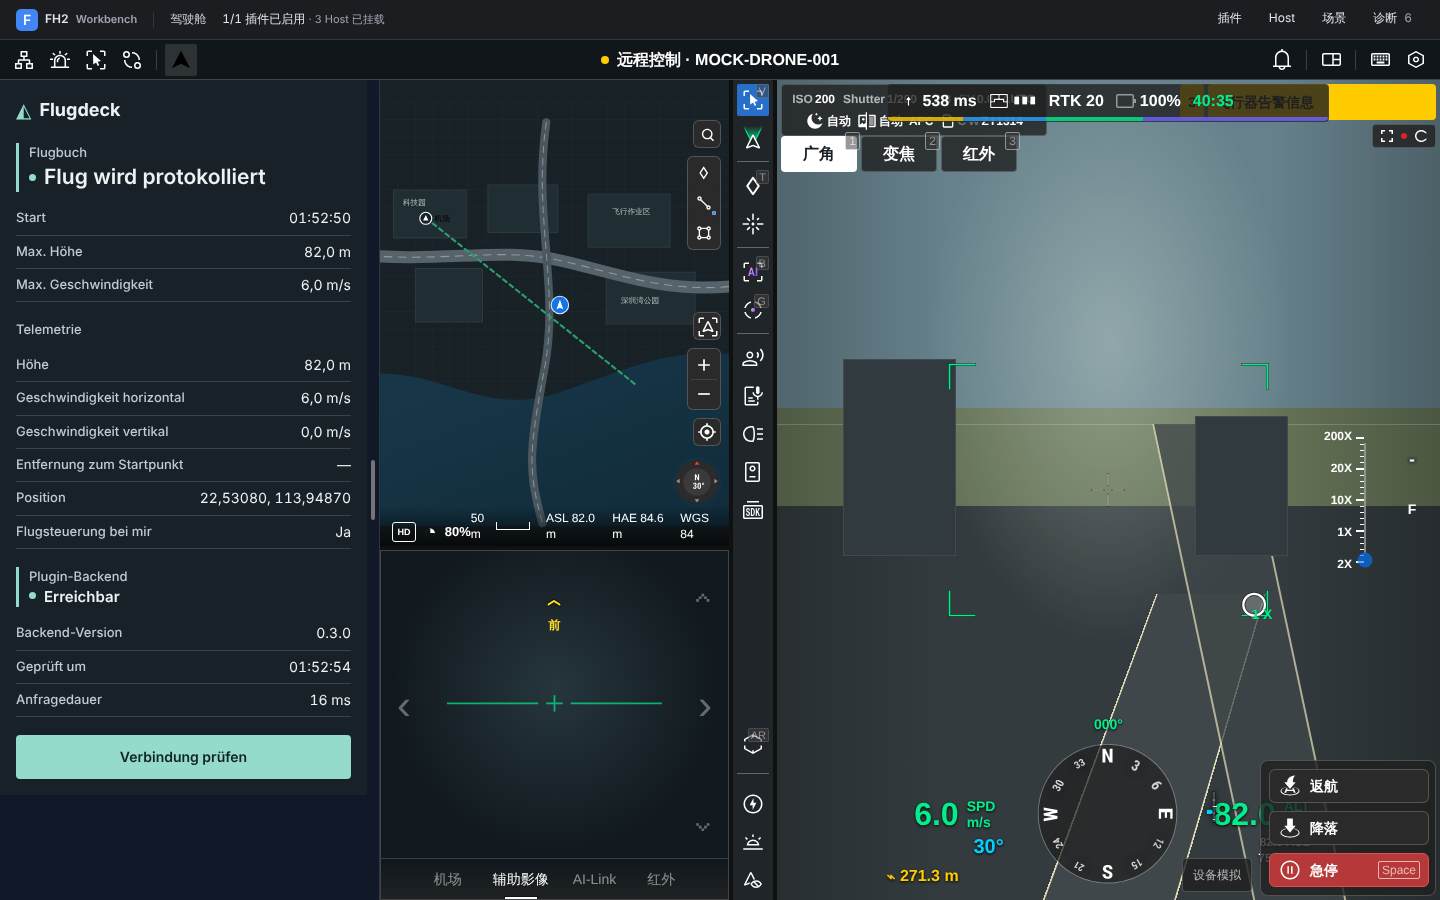
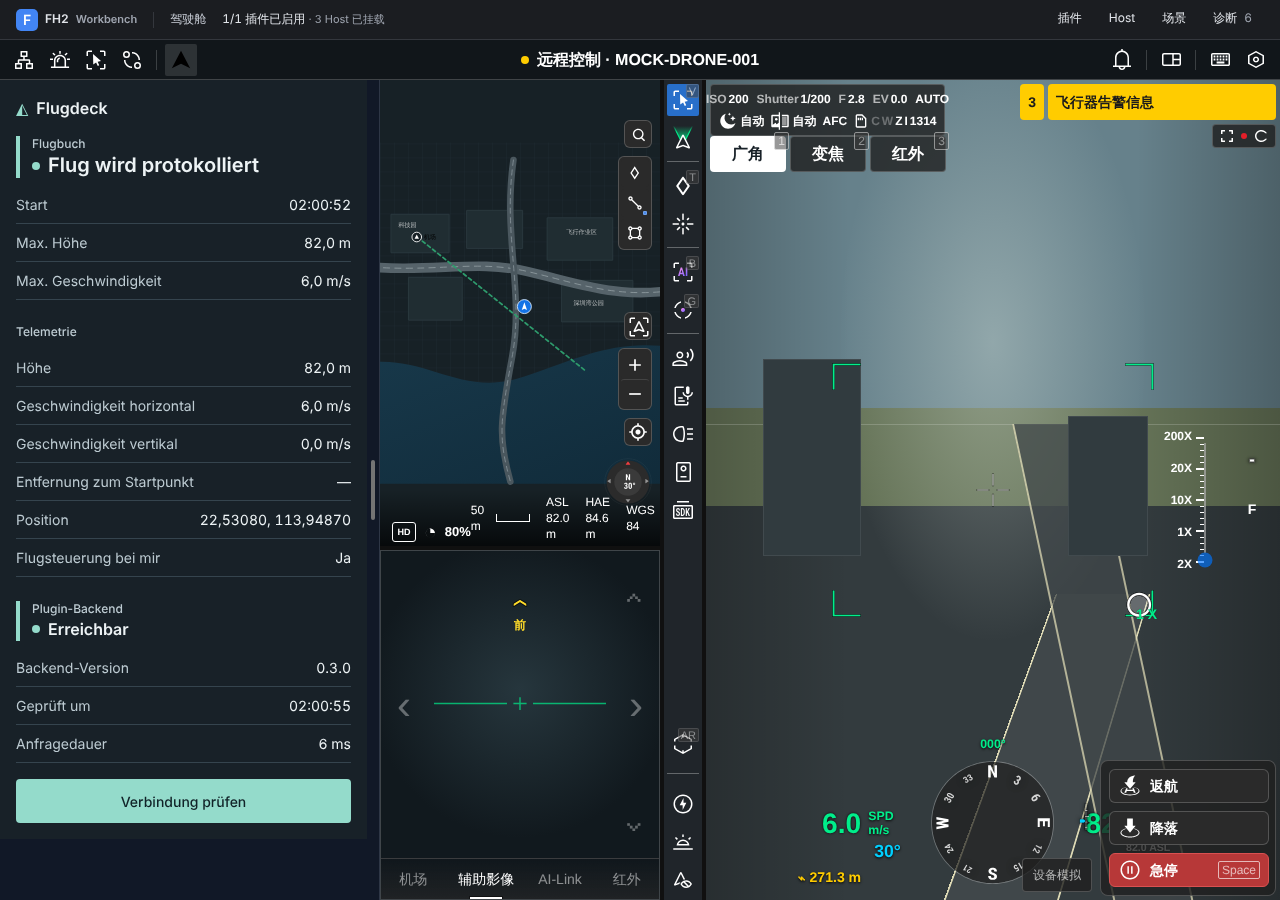
Apply UX audit fixes to FlugDeck views
- Type scale 20/16/14/12, weights 400/500/600, line-height 1.5; spacing on 4/8 grid
- Flight log as List/Index pattern: L1 frame with hairlines, labelled search, empty and no-match states
- Plan note: valid label markup, blur-first length validation instead of silent truncation
- Error copy names the recovery step; busy state on actions; new screenshots

Claude-Session: https://claude.ai/code/session_01TE2RnedQf1LZRgct2Y9tHc

diff --git a/exp_flugdeck/frontend/exp_flugdeck_frontend/src/views/flightlog-page/FlightlogPage.vue b/exp_flugdeck/frontend/exp_flugdeck_frontend/src/views/flightlog-page/FlightlogPage.vue
@@ -1,53 +1,88 @@
 <script setup lang="ts">
-import { onUnmounted, ref } from 'vue'
+import { computed, onUnmounted, ref } from 'vue'
 import type { FlightlogClient, FlightlogState } from './contract'
 import { initialFlightlog } from './contract'
 import { dash, duration, stamp, unit } from '../shared/format'
 
+// Seitenmuster: List / Index (Kopf mit Aktion, Suche, gerahmte Liste, Leer- und Filterzustand).
 const { client } = defineProps<{ client: FlightlogClient }>()
 const state = ref<FlightlogState>(initialFlightlog)
 const bridgeError = ref('')
+const query = ref('')
 const subscription = client.state.subscribe(next => { state.value = next })
+
+const visible = computed(() => {
+  const needle = query.value.trim().toLowerCase()
+  if (!needle) return state.value.items
+  return state.value.items.filter(item =>
+    [item.droneSn, stamp(item.startedAt), item.mediaRef].some(text => text.toLowerCase().includes(needle)))
+})
+const loading = computed(() => state.value.phase === 'loading')
 
 async function reload () {
   bridgeError.value = ''
   try { await client.reload() }
-  catch { bridgeError.value = 'Das Flugbuch konnte den Plugin-Einstieg nicht erreichen.' }
+  catch { bridgeError.value = 'Das Flugbuch konnte den Plugin-Einstieg nicht erreichen. Bitte die Seite neu laden.' }
 }
 onUnmounted(() => subscription.dispose())
 </script>
 <template>
-  <section class="fd" lang="de" aria-label="Flugbuch">
+  <section class="fd" lang="de" aria-labelledby="flugdeck-log-title" :aria-busy="loading">
     <header>
-      <h2>Flugbuch</h2>
-      <button type="button" :disabled="state.phase === 'loading' || !state.projectId" @click="reload">
-        {{ state.phase === 'loading' ? 'Lädt …' : 'Aktualisieren' }}
+      <h2 id="flugdeck-log-title">Flugbuch</h2>
+      <button type="button" class="secondary" :disabled="loading || !state.projectId" :aria-busy="loading" @click="reload">
+        {{ loading ? 'Lädt …' : 'Liste aktualisieren' }}
       </button>
     </header>
-    <p class="error" v-if="bridgeError || state.phase === 'error'" role="alert">{{ bridgeError || state.message }}</p>
-    <p class="hint" v-else-if="state.phase === 'ready' && state.items.length === 0">
-      Noch keine Flüge in diesem Projekt. Flüge werden automatisch erfasst, wenn das Flugdeck-Panel im Cockpit geöffnet ist.
+
+    <p class="error" v-if="bridgeError || state.phase === 'error'" role="alert">
+      {{ bridgeError || state.message }}<template v-if="!bridgeError && state.projectId"> Mit „Liste aktualisieren“ erneut laden.</template>
     </p>
-    <ol v-if="state.items.length" aria-label="Flüge, neueste zuerst">
-      <li v-for="item in state.items" :key="item.flightKey" :data-phase="item.status === 'active' ? 'recording' : 'ready'" class="readout">
-        <p class="title"><i class="dot" aria-hidden="true"></i>{{ stamp(item.startedAt) }}</p>
-        <dl>
-          <div><dt>Dauer</dt><dd>{{ item.status === 'active' ? 'läuft' : duration(item.startedAt, item.finishedAt) }}</dd></div>
-          <div><dt>Drohne</dt><dd>{{ item.droneSn || dash }}</dd></div>
-          <div><dt>Max. Höhe</dt><dd>{{ unit(item.maxHeightM, 'm') }}</dd></div>
-          <div><dt>Max. Geschwindigkeit</dt><dd>{{ unit(item.maxSpeedMs, 'm/s') }}</dd></div>
-          <div><dt>Medien</dt><dd>{{ item.mediaRef || dash }}</dd></div>
-        </dl>
-      </li>
-    </ol>
-    <p class="hint" v-if="state.total > state.items.length">{{ state.items.length }} von {{ state.total }} Flügen angezeigt.</p>
+
+    <label class="label" for="flugdeck-log-search">Flüge durchsuchen</label>
+    <input id="flugdeck-log-search" v-model="query" type="search" placeholder="08.11.2026" autocomplete="off" />
+
+    <div class="frame">
+      <div v-if="state.phase === 'ready' && state.items.length === 0" class="empty">
+        <h3 class="empty-title">Noch keine Flüge</h3>
+        <p class="hint">Flüge erscheinen hier automatisch, sobald im Cockpit mit geöffnetem Flugdeck-Panel geflogen wird.</p>
+      </div>
+      <div v-else-if="state.items.length > 0 && visible.length === 0" class="empty">
+        <h3 class="empty-title">Keine Flüge passen zur Suche</h3>
+        <p class="hint">Andere Drohne oder anderes Datum versuchen.</p>
+        <button type="button" class="secondary" @click="query = ''">Suche zurücksetzen</button>
+      </div>
+      <p v-else-if="state.items.length === 0" class="empty hint">{{ loading ? 'Flüge werden geladen …' : dash }}</p>
+      <ol v-else aria-label="Flüge, neueste zuerst">
+        <li v-for="item in visible" :key="item.flightKey" :data-phase="item.status === 'active' ? 'recording' : 'ready'">
+          <p class="title"><i class="dot" aria-hidden="true"></i>{{ stamp(item.startedAt) }}<span class="status">{{ item.status === 'active' ? 'läuft' : duration(item.startedAt, item.finishedAt) }}</span></p>
+          <dl>
+            <div><dt>Drohne</dt><dd>{{ item.droneSn || dash }}</dd></div>
+            <div><dt>Max. Höhe</dt><dd>{{ unit(item.maxHeightM, 'm') }}</dd></div>
+            <div><dt>Max. Geschwindigkeit</dt><dd>{{ unit(item.maxSpeedMs, 'm/s') }}</dd></div>
+            <div><dt>Medien</dt><dd>{{ item.mediaRef || dash }}</dd></div>
+          </dl>
+        </li>
+      </ol>
+    </div>
+    <p class="hint count" v-if="state.total > state.items.length">{{ state.items.length }} von {{ state.total }} Flügen geladen.</p>
   </section>
 </template>
 <style src="../shared/theme.css"></style>
 <style scoped>
 header { display: flex; align-items: center; justify-content: space-between; gap: 12px; margin-bottom: 16px; }
-ol { list-style: none; margin: 0; padding: 0; display: grid; gap: 16px; }
-.title { font-weight: 600; margin-bottom: 4px; }
-.hint { color: var(--fd-muted); }
-.error { margin-block: 12px; }
+.error { margin-bottom: 16px; }
+input { margin: 4px 0 16px; }
+.frame { background: var(--fd-raised); border: 1px solid var(--fd-line); border-radius: 4px; }
+ol { list-style: none; margin: 0; padding: 0; }
+li { padding: 12px 16px; border-bottom: 1px solid var(--fd-line); }
+li:last-child { border-bottom: 0; }
+.title { display: flex; justify-content: space-between; gap: 8px; font-weight: 500; }
+.status { color: var(--fd-muted); font-variant-numeric: tabular-nums; }
+dl { margin-top: 4px; }
+dl div:last-child { border-bottom: 0; }
+.empty { padding: 16px; }
+.empty-title { font-size: 14px; color: var(--fd-text); font-weight: 600; margin-bottom: 4px; }
+.empty button { margin-top: 12px; }
+.count { margin-top: 8px; font-size: 12px; }
 </style>

diff --git a/exp_flugdeck/frontend/exp_flugdeck_frontend/src/views/shared/theme.css b/exp_flugdeck/frontend/exp_flugdeck_frontend/src/views/shared/theme.css
@@ -1,21 +1,28 @@
-/* Gemeinsame Flugdeck-Farben (siehe DESIGN.md). */
+/*
+ * Gemeinsame Flugdeck-Gestaltung (siehe DESIGN.md).
+ * Schrift: 20 / 16 / 14 / 12 px, Stärken 400 / 500 / 600. Abstände: 4er-Raster, Abschnitte 8er-Raster.
+ */
 .fd {
-  --fd-surface: #182128; --fd-text: #edf3f5; --fd-muted: #bdcbd2; --fd-line: #35444e;
+  --fd-surface: #182128; --fd-raised: #1e2930; --fd-text: #edf3f5; --fd-muted: #bdcbd2; --fd-line: #35444e;
   --fd-ok: #94dbcb; --fd-busy: #f2cf8b; --fd-error: #ffae95; --fd-neutral: #a8b6bd;
   box-sizing: border-box; min-width: 0; padding: 16px; background: var(--fd-surface); color: var(--fd-text);
-  font: 14px/1.45 system-ui, sans-serif;
+  font: 400 14px/1.5 system-ui, sans-serif;
 }
 .fd h2, .fd h3, .fd p, .fd dl, .fd dd { margin: 0; }
-.fd h2 { font-size: 18px; font-weight: 650; }
-.fd h3, .fd dt { font-size: 13px; font-weight: 500; color: var(--fd-muted); }
-.fd dl div { display: flex; justify-content: space-between; flex-wrap: wrap; gap: 2px 8px; padding: 6px 0; border-bottom: 1px solid var(--fd-line); }
+.fd h2 { font-size: 16px; font-weight: 600; line-height: 1.25; }
+.fd h3, .fd .label { font-size: 12px; font-weight: 500; line-height: 1.4; color: var(--fd-muted); }
+.fd dt { color: var(--fd-muted); }
+.fd dl div { display: flex; justify-content: space-between; flex-wrap: wrap; gap: 4px 8px; padding: 8px 0; border-bottom: 1px solid var(--fd-line); }
 .fd dd { font-variant-numeric: tabular-nums; overflow-wrap: anywhere; min-width: 0; }
 .fd .error { color: #ffbea8; overflow-wrap: anywhere; }
-.fd button { min-height: 44px; padding: 6px 12px; color: #112328; background: var(--fd-ok); border: 0; border-radius: 4px; font: inherit; font-weight: 600; cursor: pointer; }
+.fd .hint { color: var(--fd-muted); }
+.fd button { min-height: 44px; padding: 8px 12px; color: #112328; background: var(--fd-ok); border: 0; border-radius: 4px; font: inherit; font-weight: 500; cursor: pointer; }
+.fd button.secondary { color: var(--fd-text); background: transparent; border: 1px solid var(--fd-line); }
 .fd button:disabled { background: #abbac0; cursor: wait; }
 .fd button:focus-visible, .fd input:focus-visible, .fd textarea:focus-visible { outline: 2px solid white; outline-offset: 2px; }
-.fd .readout { border-inline-start: 3px solid var(--signal, var(--fd-neutral)); padding-inline-start: 10px; }
+.fd input, .fd textarea { box-sizing: border-box; width: 100%; min-height: 44px; padding: 8px; font: inherit; color: var(--fd-text); background: #0f161b; border: 1px solid var(--fd-line); border-radius: 4px; }
+.fd .readout { border-inline-start: 4px solid var(--signal, var(--fd-neutral)); padding-inline-start: 12px; }
 .fd [data-phase="ready"], .fd [data-phase="recording"] { --signal: var(--fd-ok); }
 .fd [data-phase="loading"] { --signal: var(--fd-busy); }
 .fd [data-phase="error"] { --signal: var(--fd-error); }
-.fd .dot { display: inline-block; width: 7px; height: 7px; margin: 0 8px 3px 0; border-radius: 50%; background: var(--signal, var(--fd-neutral)); }
+.fd .dot { display: inline-block; width: 8px; height: 8px; margin: 0 8px 2px 0; border-radius: 50%; background: var(--signal, var(--fd-neutral)); }

diff --git a/exp_flugdeck/frontend/exp_flugdeck_frontend/src/views/status-panel/Panel.vue b/exp_flugdeck/frontend/exp_flugdeck_frontend/src/views/status-panel/Panel.vue
@@ -34,7 +34,7 @@ onUnmounted(() => subscription.dispose())
       <h3>Flugbuch</h3>
       <p class="headline" role="status"><i class="dot" aria-hidden="true"></i>{{ flightTitles[flight.phase] }}</p>
     </div>
-    <p class="error" v-if="flight.message">{{ flight.message }}</p>
+    <p class="error" v-if="flight.message" role="alert">{{ flight.message }}</p>
     <dl>
       <div><dt>Start</dt><dd>{{ time(flight.startedAt) }}</dd></div>
       <div><dt>Max. Höhe</dt><dd>{{ unit(flight.maxHeightM, 'm') }}</dd></div>
@@ -60,26 +60,29 @@ onUnmounted(() => subscription.dispose())
       <h3>Plugin-Backend</h3>
       <p role="status"><i class="dot" aria-hidden="true"></i>{{ bridgeError ? 'Panelverbindung gestört' : backendTitles[state.backend.phase] }}</p>
     </div>
-    <p class="error" v-if="bridgeError || state.backend.phase === 'error'">{{ bridgeError || state.backend.detail }}</p>
+    <p class="error" v-if="bridgeError || state.backend.phase === 'error'">
+      {{ bridgeError || state.backend.detail }} Bitte Netzwerk prüfen und die Verbindung erneut prüfen.
+    </p>
     <dl v-if="!bridgeError">
       <div><dt>Backend-Version</dt><dd>{{ state.backend.phase === 'ready' ? state.backend.detail : dash }}</dd></div>
       <div><dt>Geprüft um</dt><dd>{{ time(state.backend.checkedAt) }}</dd></div>
       <div><dt>Anfragedauer</dt><dd>{{ state.backend.durationMs === null ? dash : state.backend.durationMs + ' ms' }}</dd></div>
     </dl>
-    <button type="button" :disabled="pending || (!bridgeError && state.backend.phase === 'loading')" @click="check">
+    <button type="button" :aria-busy="pending || state.backend.phase === 'loading'" :disabled="pending || (!bridgeError && state.backend.phase === 'loading')" @click="check">
       {{ pending ? 'Prüfung läuft …' : 'Verbindung prüfen' }}
     </button>
   </section>
 </template>
 <style src="../shared/theme.css"></style>
 <style scoped>
-header { display: flex; align-items: center; gap: 8px; margin-bottom: 18px; }
-.mark { color: var(--fd-ok); font-size: 20px; }
-.headline { font-size: 21px; font-weight: 620; overflow-wrap: anywhere; }
-.section { margin-top: 18px; }
-.hint { color: var(--fd-muted); margin-block: 8px 14px; }
+header { display: flex; align-items: center; gap: 8px; margin-bottom: 16px; }
+.mark { color: var(--fd-ok); font-size: 16px; }
+.headline { font-size: 20px; font-weight: 600; line-height: 1.25; overflow-wrap: anywhere; }
+.section { margin-top: 24px; }
+.hint { margin-block: 8px 16px; }
 .error { margin-block: 12px; }
-dl { margin-block: 10px 18px; }
-.backend p { font-size: 15px; font-weight: 600; }
+dl { margin-block: 8px 16px; }
+.backend { margin-top: 24px; }
+.backend p { font-size: 16px; font-weight: 600; }
 button { width: 100%; }
 </style>

diff --git a/exp_flugdeck/frontend/exp_flugdeck_frontend/src/views/plan-note/PlanNote.vue b/exp_flugdeck/frontend/exp_flugdeck_frontend/src/views/plan-note/PlanNote.vue
@@ -1,11 +1,14 @@
 <script setup lang="ts">
-import { onUnmounted, ref } from 'vue'
+import { computed, onUnmounted, ref } from 'vue'
 import type { PlanNoteClient, PlanNoteState } from './contract'
 import { NOTE_MAX_LENGTH } from './contract'
 
 const { client } = defineProps<{ client: PlanNoteClient }>()
 const state = ref<PlanNoteState>({ available: false, note: '' })
 const subscription = client.state.subscribe(next => { state.value = next })
+const touched = ref(false)
+// Fehler erst nach dem ersten Verlassen des Felds zeigen, beim Korrigieren sofort entfernen.
+const tooLong = computed(() => touched.value && state.value.note.length > NOTE_MAX_LENGTH)
 function input (event: Event) {
   void client.setNote({ note: (event.target as HTMLTextAreaElement).value })
 }
@@ -13,14 +16,16 @@ onUnmounted(() => subscription.dispose())
 </script>
 <template>
   <section class="fd" lang="de">
-    <label for="flugdeck-note"><h3>Flugbuch-Notiz</h3></label>
-    <textarea id="flugdeck-note" rows="2" :maxlength="NOTE_MAX_LENGTH" :value="state.note" :disabled="!state.available"
-      aria-describedby="flugdeck-note-hint" @input="input"></textarea>
-    <p id="flugdeck-note-hint" class="hint">Optional. Wird mit der Aufgabe gespeichert und im Flugbuch zugeordnet. {{ state.note.length }}/{{ NOTE_MAX_LENGTH }}</p>
+    <label class="label" for="flugdeck-note">Flugbuch-Notiz</label>
+    <textarea id="flugdeck-note" rows="2" :value="state.note" :disabled="!state.available"
+      aria-describedby="flugdeck-note-hint" :aria-invalid="tooLong" @input="input" @blur="touched = true"></textarea>
+    <p v-if="tooLong" id="flugdeck-note-hint" class="error">Kürze die Notiz auf {{ NOTE_MAX_LENGTH }} Zeichen, damit die Aufgabe gespeichert werden kann ({{ state.note.length }}/{{ NOTE_MAX_LENGTH }}).</p>
+    <p v-else id="flugdeck-note-hint" class="hint">Optional. Wird mit der Aufgabe gespeichert. {{ state.note.length }}/{{ NOTE_MAX_LENGTH }}</p>
   </section>
 </template>
 <style src="../shared/theme.css"></style>
 <style scoped>
-textarea { box-sizing: border-box; width: 100%; margin-top: 6px; padding: 8px; font: inherit; color: var(--fd-text); background: #0f161b; border: 1px solid var(--fd-line); border-radius: 4px; resize: vertical; }
-.hint { margin-top: 4px; font-size: 12px; color: var(--fd-muted); }
+textarea { display: block; margin-top: 4px; resize: vertical; }
+textarea[aria-invalid="true"] { border-color: var(--fd-error); }
+.hint, .error { margin-top: 4px; font-size: 12px; line-height: 1.4; }
 </style>

diff --git a/exp_flugdeck/frontend/exp_flugdeck_frontend/src/views/alert-popup/AlertPopup.vue b/exp_flugdeck/frontend/exp_flugdeck_frontend/src/views/alert-popup/AlertPopup.vue
@@ -16,5 +16,5 @@ onUnmounted(() => subscription.dispose())
 </template>
 <style src="../shared/theme.css"></style>
 <style scoped>
-p { margin-block: 8px 14px; }
+p { margin-block: 8px 16px; }
 </style>

diff --git a/DESIGN.md b/DESIGN.md
@@ -8,9 +8,15 @@
 
 Die große Statuszeile gehört dem Flugbuch. Telemetrie und Backend folgen als Wertelisten. Die Backend-Prüfung ist die einzige Aktion. Ihr Button bleibt am Ende des Panels, ist mindestens 44 Pixel hoch und während der Prüfung gesperrt.
 
-**Project-Flugbuch.** Die Seite zeigt die Flüge des Projekts, neueste zuerst. Aktive Flüge sind türkis markiert. Ohne Einträge steht dort ein Satz, wie Flüge entstehen.
+**Project-Flugbuch.** Die Seite folgt dem Muster List/Index:
 
-**Plan-Notiz.** Ein beschriftetes Textfeld mit Zeichenzähler, höchstens 200 Zeichen. Ohne Formularkontext ist es gesperrt.
+- Kopf mit der Aktion „Liste aktualisieren“
+- beschriftete Suche
+- Liste in einem L1-Rahmen mit Trennlinien
+
+Die Flüge stehen neueste zuerst; aktive Flüge sind türkis markiert. Ohne Einträge erklärt der Leerzustand, wie Flüge entstehen. Findet die Suche nichts, bietet ein Leerzustand „Suche zurücksetzen“ an.
+
+**Plan-Notiz.** Ein beschriftetes Textfeld mit Zeichenzähler, höchstens 200 Zeichen. Ist die Notiz zu lang, erscheint der Hinweis erst nach dem Verlassen des Felds und verschwindet sofort, sobald sie kurz genug ist. Ohne Formularkontext ist das Feld gesperrt.
 
 **Farben.** Die Fläche ist schiefergrau (#182128), der Primärtext hell (#edf3f5). Die Zustände haben je eine Farbe:
 
@@ -19,6 +25,10 @@ Die große Statuszeile gehört dem Flugbuch. Telemetrie und Backend folgen als W
 - Apricot: Fehler
 
 Jeder Zustand hat zusätzlich eine Textbezeichnung. Fehlende Werte erscheinen als „—“.
+
+**Raster.** Schriftgrößen 20 / 16 / 14 / 12 px, Stärken 400 / 500 / 600. Die Zeilenhöhe beträgt 1,5 für Text und 1,25 für Überschriften. Abstände folgen dem 4er-Raster, Abschnitte dem 8er-Raster.
+
+**Fehlermeldungen** nennen den nächsten Schritt.
 
 **Darstellung.** Zahlen verwenden tabellarische Ziffern im deutschen Format. Lange Texte brechen innerhalb der Panelbreite um. Der Tastaturfokus bleibt sichtbar. Statuswechsel werden über eine Live-Region angekündigt.
 

diff --git a/README.md b/README.md
@@ -6,6 +6,8 @@ Flugdeck ist ein FlightHub-2-Plugin mit Frontend und Backend. Es zeigt im Cockpi
 
 ![Das FlugDeck-Panel im DJI-Mock-Cockpit](docs/cockpit-panel.png)
 
+![Die Flugbuch-Seite im DJI-Mock-Projekt](docs/project-flugbuch.png)
+
 ## Funktionen nach Host
 
 | Host | Erweiterungspunkt | Inhalt |
